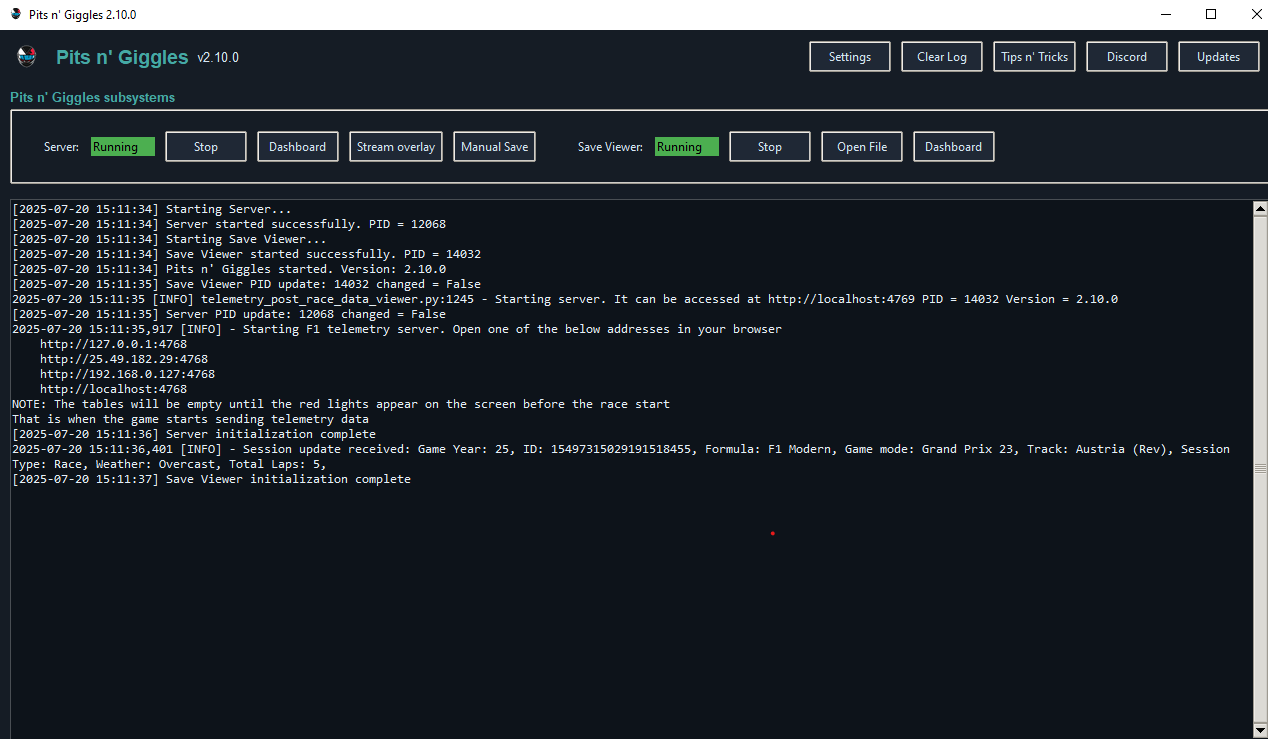
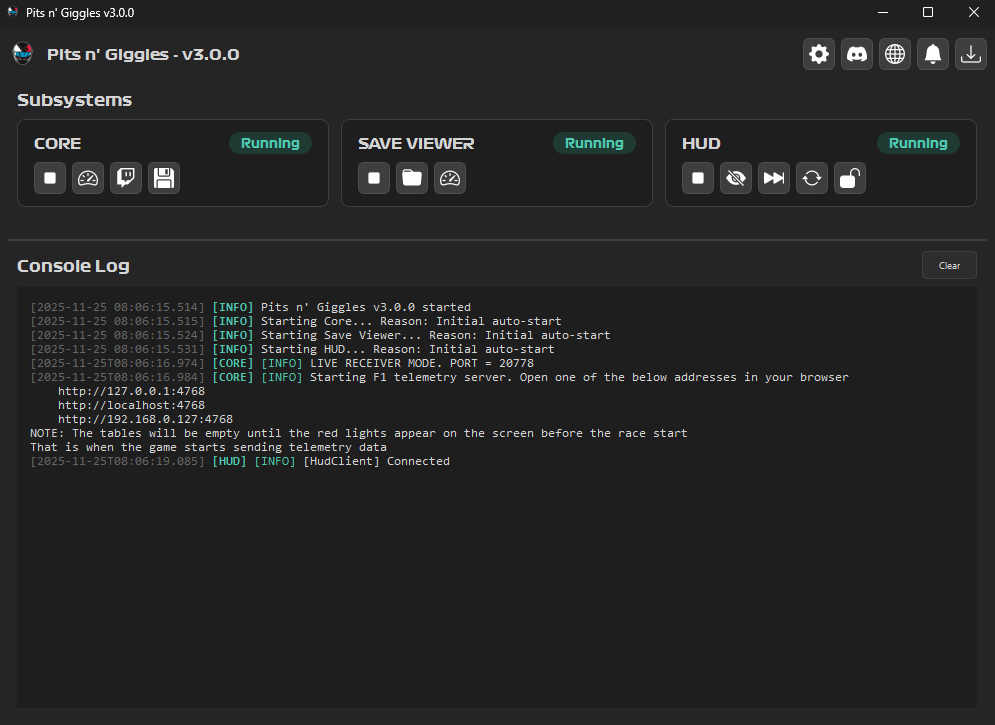
window title and screenshot update

Changed region(s): [[0.0, 0.1214, 1.0, 1.0], [0.0, 0.0, 1.0, 0.1214], [0.8724, 0.1821, 0.9658, 0.2124]]

diff --git a/apps/launcher/gui/main_window.py b/apps/launcher/gui/main_window.py
@@ -236,7 +236,7 @@ class PngLauncherWindow(QMainWindow):
 
     def setup_ui(self):
         """Setup the main UI"""
-        self.setWindowTitle(APP_NAME)
+        self.setWindowTitle(f"{APP_NAME} {self.ver_str}")
         self.thread_pool = QThreadPool.globalInstance()
         self.setMinimumSize(1000, 700)
 
